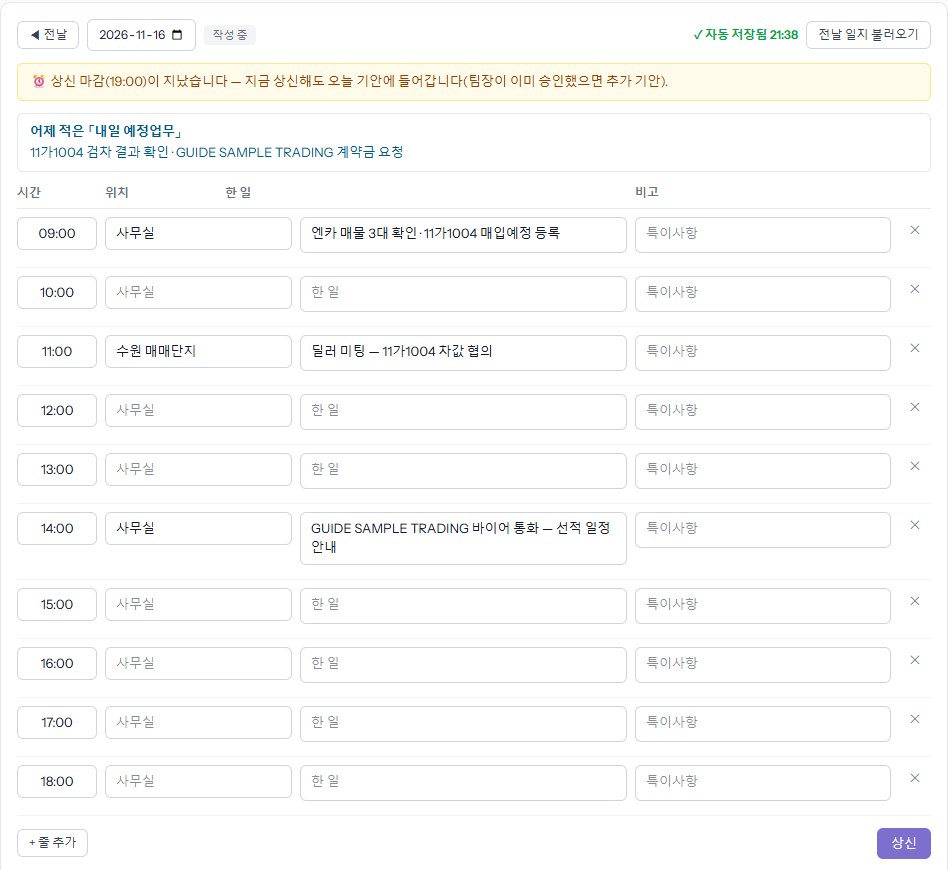
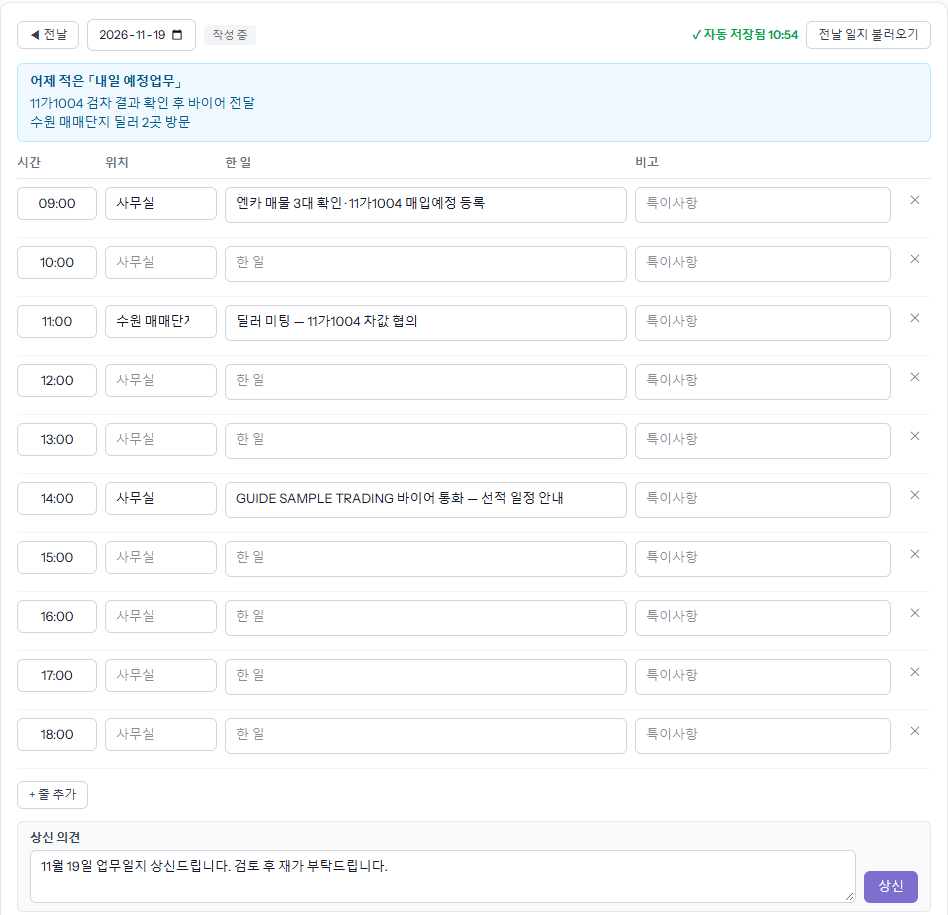
docs(guides): 업무일지 — 상신 의견·결재의견·기안 전체 반려·재상신·결재 이력(12단계, 새 그림 7장) + 기획 문서에 11-19 확정 사항

diff --git a/resources/guides/work-journal/index.html b/resources/guides/work-journal/index.html
@@ -1,5 +1,6 @@
-<!-- 업무일지 — 로컬 가이드 계정 김영업으로 오늘 일지를 쓰고 상신해, 로컬 결재 직급 계정(정팀장·임부장·오상무·홍대표)으로 결재까지 찍었다(2026-11-14 첫판 · 2026-11-16 엑셀 양식 칸·결재선 지정 창 반영).
-     「board 활동」 표는 그날 가이드를 찍으며 실제로 한 일이 자동으로 쌓인 것. 내용은 예시. 3·4·7·8번 그림은 11-14 화면. -->
+<!-- 업무일지 — 로컬 가이드 계정(김영업·이영업·데모영업)으로 오늘 일지를 쓰고 상신해, 로컬 결재 직급 계정(정팀장·임부장·오상무·홍대표)으로 결재·반려·재상신까지 찍었다
+     (2026-11-14 첫판 · 11-16 엑셀 양식 칸·결재선 지정 창 · 11-19 상신 의견·결재의견·기안 반려·결재 이력). 내용은 예시.
+     2·3·5·6·7·9·10번 그림은 앞선 날짜 화면(그 부분은 바뀌지 않았다). -->
 
 <p style="margin:0 0 14px;color:#4b5563;line-height:1.65">
     그날 한 일을 적어 <strong>상신</strong>하면 팀장이 먼저 결재하고, 팀장이 <strong>부장·상무·대표 중 누구에게 올릴지</strong> 정해 넘깁니다. 왼쪽 메뉴 「업무일지」에서 씁니다.
@@ -13,7 +14,7 @@
     <h3>[하루 틀 만들기]로 시간 칸을 깔고 위치·한 일을 적습니다</h3>
     <p>빈 일지에서 [하루 틀 만들기 (09~18시)]를 누르면 한 시간마다 줄이 생깁니다. 「위치」(사무실·매매단지·경매장 등 — 목록에서 고르거나 직접 입력), 「한 일」, 「비고」를 적으면 바로 자동 저장됩니다. 빈 줄은 상신할 때 빠지니 지우지 않아도 됩니다. 줄을 더 넣으려면 [+ 줄 추가](지금 시각이 들어감), 어제와 비슷하면 [전날 일지 불러오기].</p>
     <p>맨 위 파란 상자에는 <strong>어제 적은 「내일 예정업무」</strong>가 보입니다.</p>
-    <img src="01.png" alt="업무일지 — 어제 적은 내일 예정업무, 09~18시 줄, 09:00 사무실·11:00 수원 매매단지·14:00 사무실에 한 일">
+    <img src="01.png" alt="업무일지 — 어제 적은 내일 예정업무, 09~18시 줄, 아래 상신 의견 칸과 상신 버튼">
 </div>
 
 <div class="gd-step">
@@ -32,8 +33,8 @@
 
 <div class="gd-step">
     <div class="gd-n">4단계</div>
-    <h3>[상신]을 누릅니다 — 그 뒤 [📄 엑셀로 내려받기]</h3>
-    <p>확인 창 뒤 「결재 대기」로 바뀌고 더는 고칠 수 없습니다. <strong>팀장이 승인하기 전까지는 [회수]</strong>해서 고친 뒤 다시 상신할 수 있습니다. 마감(보통 19:00)이 지나도 상신은 되고, 그날 기안에 들어갑니다.</p>
+    <h3>「상신 의견」을 확인하고 [상신]을 누릅니다 — 그 뒤 [📄 엑셀로 내려받기]</h3>
+    <p>줄 아래 「상신 의견」 칸에 「11월 19일 업무일지 상신드립니다. 검토 후 재가 부탁드립니다.」가 미리 적혀 있습니다. 그대로 두거나 고쳐 씁니다(1단계 그림 아래쪽). [상신]을 누르면 확인 창 뒤 「결재 대기」로 바뀌고 더는 고칠 수 없습니다. <strong>팀장이 승인하기 전까지는 [회수]</strong>해서 고친 뒤 다시 상신할 수 있습니다. 마감(보통 19:00)이 지나도 상신은 되고, 그날 기안에 들어갑니다.</p>
     <p>상신한 일지는 [📄 엑셀로 내려받기]로 회사 업무일지 양식(시간·위치·한 일·비고 · 금일 계약 차량 · 내일 예정업무 · 특이사항)으로 받습니다. 최종 승인되면 엑셀에 최종 결재자와 시각이 찍힙니다. 결재자도 결재 화면의 이름 옆 링크로 받을 수 있습니다.</p>
     <img src="02.png" alt="상신했습니다 — 적은 줄 3개만 남고, 엑셀로 내려받기 버튼, 금일 계약 차량·내일 예정업무·특이사항">
 </div>
@@ -50,15 +51,15 @@
 <div class="gd-step">
     <div class="gd-n">6단계</div>
     <h3>결재자는 「업무일지결재」에서 날짜별 기안을 엽니다</h3>
-    <p>그날 상신된 일지가 한 기안으로 묶여 「결재할 것」에 들어옵니다. 위쪽 줄에 결재 순서와 지금 누구 차례인지가 보입니다. 팀장 차례일 때 보이는 부장·상무·대표는 <strong>기본값</strong>이고, 실제로 누구에게 갈지는 팀장이 승인할 때 정합니다. [전체 펼치기]로 사람별 일지와 board 활동을 봅니다.</p>
-    <img src="04.png" alt="2026-11-14 업무일지 — 기안 → 팀장(결재 중) → 부장 → 상무 → 대표, 김영업 2건" width="652">
+    <p>그날 상신된 일지가 <strong>한 기안으로 묶여</strong> 「결재할 것」에 들어옵니다. 위쪽 줄에 결재 순서와 지금 누구 차례인지가 보입니다. 팀장 차례일 때 보이는 부장·상무·대표는 <strong>기본값</strong>이고, 실제로 누구에게 갈지는 팀장이 승인할 때 정합니다.</p>
+    <p>사람 이름을 누르면(또는 [전체 펼치기]) 그 사람의 일지·board 활동과 「결재 이력」(상신 의견, 앞 결재자의 결재의견, 반려 사유)이 보입니다. 그 아래 <strong>「결재의견」 칸이 사람마다 하나</strong> 있습니다(선택). 적은 의견은 그 사람에게만 보입니다.</p>
+    <img src="04.png" alt="2026-11-19 업무일지 — 기안 → 팀장(결재 중) → 부장 → 상무 → 대표, 김영업·이영업·데모영업 3명, 반려·결재선 지정 승인 버튼" width="652">
 </div>
 
 <div class="gd-step">
     <div class="gd-n">7단계</div>
-    <h3>팀장: 의견을 달고 [결재선 지정 · 승인] → 올릴 사람을 고릅니다</h3>
-    <p>사람별 의견 칸과 「전체 의견」 칸에 적을 수 있습니다(선택). [결재선 지정 · 승인]을 누르면 창이 뜹니다. 부장·상무·대표 칸마다 그 사람을 고르거나 「— 건너뜀」을 고릅니다. <strong>지정한 마지막 사람이 최종 결재권자</strong>이고, 창 아래에 결재 순서와 최종 결재권자가 보입니다. 한 명은 꼭 골라야 합니다. [승인 → 부장에게]를 누르면 그 순서로 넘어갑니다. 클레임 [결재 요청]과 같은 창입니다.</p>
-    <p><strong>반려는 팀장만</strong>, 승인 전에 사람별로 할 수 있습니다(빨간 [반려] → 사유).</p>
+    <h3>팀장: [결재선 지정 · 승인] → 올릴 사람을 고릅니다</h3>
+    <p>[결재선 지정 · 승인]을 누르면 창이 뜹니다. 부장·상무·대표 칸마다 그 사람을 고르거나 「— 건너뜀」을 고릅니다. <strong>지정한 마지막 사람이 최종 결재권자</strong>이고, 창 아래에 결재 순서와 최종 결재권자가 보입니다. 한 명은 꼭 골라야 합니다. [승인 → 부장에게]를 누르면 그 순서로 넘어갑니다. 클레임 [결재 요청]과 같은 창입니다.</p>
     <img src="05.png" alt="결재선 창 — 부장 임부장, 상무 오상무, 대표 건너뜀 · 팀장(나) → 부장 → 상무, 최종 결재권자 = 상무 오상무" width="420">
     <img src="06.png" alt="팀장 승인 뒤 결재 줄 — 팀장 ✓ → 부장(결재 중) → 상무, 대표 없음" width="652">
 </div>
@@ -66,23 +67,57 @@
 <div class="gd-step">
     <div class="gd-n">8단계</div>
     <h3>부장·상무·대표: [승인 → 다음 사람에게]</h3>
-    <p>내 차례가 오면 「결재할 것」에 들어옵니다. 의견을 달고 [승인 → 상무에게]처럼 다음 사람 이름이 적힌 버튼을 누릅니다. 최종 결재권자는 [승인 → 최종 승인]입니다. 결재선은 팀장이 정한 대로 가며, 중간에 바꿀 수 없습니다.</p>
+    <p>내 차례가 오면 「결재할 것」에 들어옵니다. 필요한 사람에게 결재의견을 달고 [승인 → 상무에게]처럼 다음 사람 이름이 적힌 버튼을 누릅니다. 최종 결재권자는 [승인 → 최종 승인]입니다.</p>
 </div>
 
-<h2 class="gd-sec">③ 결과 보기</h2>
+<h2 class="gd-sec">③ 반려 — 기안 전체가 팀장에게 돌아갑니다</h2>
 
 <div class="gd-step">
     <div class="gd-n">9단계</div>
-    <h3>작성자 화면에 「결재 완료」와 결재 의견이 남습니다</h3>
-    <p>최종 승인되면 「결재 완료」로 바뀌고, 결재자가 남긴 의견이 아래 「결재 의견」에 보입니다. 반려되면 「반려됨」과 사유가 뜨고, 내용은 그대로 있으니 사유에 맞게 고쳐서 다시 [상신]합니다.</p>
+    <h3>지금 차례인 결재자가 빨간 [반려]를 누릅니다</h3>
+    <p>팀장·부장·상무·대표 누구나 자기 차례에 반려할 수 있습니다. 창에 <strong>반려 사유(필수)</strong>를 적고, <strong>돌려보낼 사람</strong>을 체크합니다(여러 명 가능).</p>
+    <ul>
+        <li>반려하면 <strong>기안 전체가 팀장이 결재하기 전 상태로</strong> 돌아갑니다. 앞에서 한 승인은 취소됩니다.</li>
+        <li>체크한 사람은 일지가 본인에게 돌아가 고쳐서 다시 상신합니다. 체크하지 않은 사람은 기안에 그대로 남아 팀장 화면에 있습니다(다시 상신할 필요 없음).</li>
+        <li>아무도 체크하지 않으면 일지는 모두 기안에 남고, 기안만 팀장에게 돌아갑니다. 팀장이 보고 필요한 사람을 반려하거나 다시 올립니다.</li>
+        <li>팀장이 반려할 때는 한 명 이상 꼭 골라야 합니다.</li>
+    </ul>
+    <img src="11.png" alt="반려 창 — 반려 사유, 돌려보낼 사람에 데모영업 체크, 1명은 본인에게 돌아가고 나머지 2명은 기안에 남아 팀장에게 돌아갑니다" width="448">
+</div>
+
+<div class="gd-step">
+    <div class="gd-n">10단계</div>
+    <h3>돌려받은 사람은 사유를 보고 고쳐서 다시 [상신]합니다</h3>
+    <p>일지 위에 「상무 오상무 반려」와 사유가 빨갛게 뜹니다. 적은 내용은 그대로 있으니 필요한 곳만 고치고, 「상신 의견」에 무엇을 고쳤는지 적어 [상신]합니다. <strong>같은 기안에 다시 들어가</strong> 나머지 사람들과 모입니다.</p>
+    <img src="12.png" alt="데모영업 일지 — 반려됨, 상무 오상무 반려와 사유, 내용은 그대로, 상신 의견 칸과 상신 버튼">
+    <p>재상신한 뒤에도 아래 「결재 이력」에 반려 사유와 상신 의견이 순서대로 남습니다.</p>
+    <img src="13.png" alt="결재 이력 — 상신 의견, 상무 오상무 반려 사유, 다시 상신한 의견">
+</div>
+
+<div class="gd-step">
+    <div class="gd-n">11단계</div>
+    <h3>팀장부터 다시 결재합니다</h3>
+    <p>기안이 다시 팀장 차례가 됩니다. 반려됐던 사람 이름 옆에 「반려 1회」가 붙고, 아래 「기안 반려 이력」에 누가·언제·누구를·왜 돌려보냈는지가 보입니다. 이 이력은 다음 결재자에게도 그대로 보입니다. [결재선 지정 · 승인]을 누르면 지난번 결재선이 미리 골라져 있습니다.</p>
+    <img src="14.png" alt="다시 팀장 차례 — 데모영업 반려 1회, 기안 반려 이력에 상무 오상무·돌려보낸 사람 데모영업·사유" width="652">
+</div>
+
+<h2 class="gd-sec">④ 결과 보기</h2>
+
+<div class="gd-step">
+    <div class="gd-n">12단계</div>
+    <h3>작성자 화면에 「결재 완료」와 「결재 이력」이 남습니다</h3>
+    <p>최종 승인되면 「결재 완료」로 바뀝니다. 아래 「결재 이력」에 내 상신 의견과 결재자가 나에게 남긴 결재의견·반려 사유가 시간순으로 보입니다. 다른 사람 일지의 의견·반려는 보이지 않습니다.</p>
     <img src="07.png" alt="결재 완료 — 상신 10:30">
-    <img src="08.png" alt="결재 의견 — 팀장 정팀장 · 전체">
+    <img src="08.png" alt="결재 이력 — 김영업 상신 의견, 팀장 정팀장 결재의견">
 </div>
 
 <div class="gd-check">
     <h3>알아 둘 것</h3>
     <ul>
         <li>업무일지는 등급 「일반」인 사람이 씁니다. 결재 직급(팀장·부장·상무·대표)은 시스템관리자가 「사용자 관리」에서 정합니다.</li>
+        <li>내 일지는 나와 결재자만 봅니다. 다른 영업은 내 일지·의견·반려 이력을 볼 수 없습니다.</li>
+        <li>반려 이력과 「반려 N회」는 그날 일지에만 붙습니다. 다음 날 일지는 이력 없이 새로 시작합니다.</li>
+        <li>반려된 사람이 다시 올리기 전에 팀장이 나머지만 먼저 올릴 수도 있습니다. 그 뒤에 재상신한 일지는 그날 「추가 기안」으로 따로 팀장부터 결재됩니다.</li>
         <li>결재선 창에는 직급이 지정된 사람만 나옵니다. 그 직급에 사람이 없으면 칸이 흐리게 나오고 고를 수 없습니다.</li>
         <li>부장·상무·대표가 모두 비어 있으면 상신이 막힙니다(「막혔을 때」 참고). 팀장이 없으면 상신 때 깔린 기본 결재선(직급이 있는 사람 전원)대로 갑니다.</li>
         <li>지난 날짜 일지는 날짜 칸이나 [◀ 전날]로 찾아봅니다.</li>

diff --git a/meetings/plan-work-journal-2026-11.md b/meetings/plan-work-journal-2026-11.md
@@ -121,3 +121,19 @@
 | (업로드) | 「업무일지 작성 및 업로드」 | 상신 = 업로드 대신 | **엑셀로 내려받기**(선택) — 결재 끝난 일지를 이 양식 그대로 .xlsx 로(종이·보관용). 필요할 때만. |
 
 결정 필요(Jin): ① 위 6개 중 어디까지(제안 순서 = 위치·하루 틀 → 금일 계약 차량 → 내일 예정·특이사항 → 고정 업무 → 엑셀 내려받기) ② 위치 고르기 목록 ③ 금일 계약 차량 기준(구매확정 = won 진입 시각, 본인 등록 차만인지 확정한 사람 기준인지) ④ 결재자 화면(업무일지결재)에도 같은 칸을 보여 줄지(제안 = 보여 준다).
+
+## 2026-11-19 — 상신 의견·결재의견 한 칸·기안 전체 반려·결재 이력 (영업팀장 요청 → Jin 확정)
+
+계기 = 영업팀장(11-18 밤 대화): ① 의견을 「결재의견」 하나로, 기안자도 상신 때 작성 ② 반려되면 재상신 → 팀장부터 다시 ③ 반려 이력이 안 뜬다(기안자·반려한 사람·다음 결재자가 봐야 한다).
+
+Jin 확정(2026-11-19):
+- **기안 = 팀장이 모아 올린 하루치 묶음.** 반려 = **기안 전체 반려** — 기안이 첫 결재자(팀장) 결재 전 상태로 돌아가고 앞 단계 승인은 되돌린다.
+- 반려할 때 **돌려보낼 사람을 고른다**(여러 명·선택). 고른 사람만 일지가 본인에게 돌아가고(내용 그대로), 나머지는 기안에 남아 팀장 화면에 있다(재상신 불필요). 고른 사람이 재상신하면 **같은 기안에 다시 모여** 팀장부터 결재선을 다시 탄다.
+- 사람을 안 고른 반려 허용(「전체적으로 다시 봐라」) — 기안만 팀장에게. 단 첫 단계(팀장)는 한 명 이상.
+- 반려된 사람이 재상신하기 전에 팀장이 나머지만 먼저 올릴 수 있다 → 그 뒤 재상신분은 그날 추가 기안(종전 동작).
+- 기안이 팀장에게 돌아오면 남은 사람도 [회수]해 고칠 수 있다(승인 없는 기안 = 종전 규칙).
+- 의견 = 기안자 **상신 의견**(기본 문구 「M월 D일 업무일지 상신드립니다. 검토 후 재가 부탁드립니다.」) + 결재자 **결재의견 사람마다 한 칸**. 「전체 의견」 칸 폐지(옛 행은 읽기 전용).
+- **결재 이력(스레드)** = 상신 의견·결재의견·반려. 표 `work_journal_notes` — 일지·날짜에만 묶는다(기안·단계에 묶으면 반려·빈 기안 삭제·결재선 재지정 때 사라진다). 작성자 = 자기 일지 줄만 / 결재자 = 사람별 줄 + 「기안 반려 이력」(work_journal_id null 줄, 누구를 돌려보냈는지).
+- 반려 이력·「반려 N회」는 그날 일지에만 — 다음 날은 새로 시작.
+
+구현 = dev `d2766a3`(마이그 `2026_11_19_000001_create_work_journal_notes_table`) · 테스트 `WorkJournalTest` 23개 · 씬 점검 work-journal 29확인 통과 · 가이드 업무일지 12단계로 갱신.
